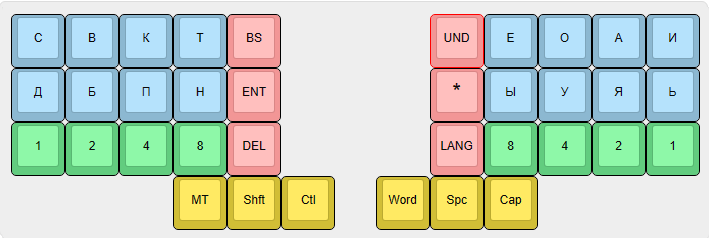
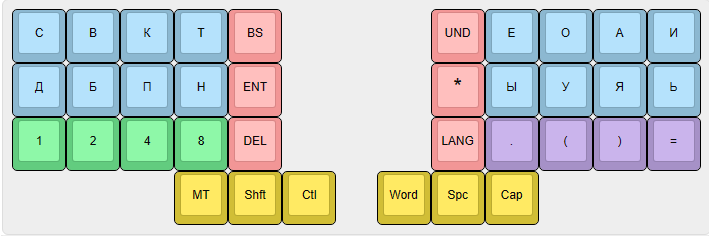
Урок 16

Changed region(s): [[0.5275, 0.0297, 0.9929, 0.9788], [0.0, 0.0297, 0.4965, 0.9788]]

diff --git a/learning/lesson014.md b/learning/lesson014.md
@@ -1,40 +1,67 @@
-```
+В сочетании "был" используются клавиши нижнего ряда (цифровые)
 
-        как                       ан
-|   | # | # |   |         |   |   | # |   |
-|   | # |   |   |         |   |   | # |   |
-
-        он                        ин
-|   | # |   |   |         |   |   |   | # |
-|   | # |   | # |         | # |   |   | # |
+Для ввода сочетания "был" без правой стороны, нажимайте клавишу "\*" на правой стороне клавиатуры
 
 ```
 
+| с | в | к | т |   | |   | е | о | а | и |
+| д | б | п | н |   | | * | ы | у | я | ь |
+| 1 | 2 | 4 | 8 |   | |   | 8 | 4 | 2 | 1 |
+
+        чт                       его
+|   | # |   | # |         | # |   |   |   |
+| # |   |   |   |         |   | # |   |   |
+
+        был                       ого
+|   |   |   |   |         |   | # |   |   |
+|   | # | # |   |         |   | # | # |   |
+|   | # |   |   |         |   |   |   |   |
+
+```
 
 | Слово | Разбивка |
 | --- | --- |
-| как | как. \* | 
-| он | он. \* | 
-| она | он.а | 
-| они | он.и | 
-| один | о д.ин | 
-| какой | как.ой | 
-| неожиданно | н.е о ж.и д.ан н.о | 
-| оно | он.о | 
-| никак | н.и как. \* | 
-| Иван | и в.ан | 
-| Константин | к.он ст.ан т.ин | 
-| никакой | н.и как.ой | 
-| хозяин | х.о з.я  \*.ин | 
-| каким | как.им | 
-| женщин | ж.ен щ.ин | 
-| института |  \*.ин ст.и т.у т.а | 
-| стакан | ст.а к.ан | 
-| Степан | ст.е п.ан | 
-| интересом |  \*.ин т.е р.е с.ом | 
-| машин | м.а ш.ин | 
-| неожиданности | н.е о ж.и д.ан н.о ст.и | 
+| что | чт.о | 
+| его |  \*.его | 
+| было | был.о | 
+| чтобы | чт.о б.ы | 
+| был | был. \* | 
+| ничего | н.и ч.его | 
+| него | н.его | 
+| была | был.а | 
+| были | был.и | 
+| того | т.ого | 
+| почти | п.о чт.и | 
+| чего | ч.его | 
+| своего | с в.о  \*.его | 
+| самого | с.а м.ого | 
+| чтоб | чт.о б | 
+| кого | к.ого | 
+| нашего | н.а ш.его | 
+| никакого | н.и как.ого | 
+| никого | н.и к.ого | 
+| моего | м.о  \*.его | 
+| нечего | н.е ч.его | 
+| каждого | к.а ж д.ого | 
+| нового | н.о в.ого | 
+| второго | в т.о р.ого | 
+| старого | ст.а р.ого | 
+| большого | б.оль ш.ого | 
+| забыл | з.а был. \* | 
+| нечто | н.е чт.о | 
+| вашего | в.а ш.его | 
+| маленького | м.а л.е н.ь к.ого | 
+| великого | в.е л.и к.ого | 
+| хорошего | х.о р.о ш.его | 
+| какого | как.ого | 
+| прошлого | пр.о ш л.ого | 
+| молодого | м.о л.о д.ого | 
+| старшего | ст.а р ш.его | 
+| твоего | т в.о  \*.его | 
+| будущего | б.у д.у щ.его | 
+| ничто | н.и чт.о | 
+| высокого | в.ы с.о к.ого | 
 
 Список слов для тренажера:
 
-как он она они один какой неожиданно оно никак Иван Константин никакой хозяин каким женщин института стакан Степан интересом машин неожиданности
+что его было чтобы был ничего него была были того почти чего своего самого чтоб кого нашего никакого никого моего нечего каждого нового второго старого большого забыл нечто вашего маленького великого хорошего какого прошлого молодого старшего твоего будущего ничто высокого

diff --git a/learning/lesson015.md b/learning/lesson015.md
@@ -1,48 +1,60 @@
-Начинаем добавлять в состав аккорда клавиши цифрового ряда
 
 ```
 
-        был                       его
+        эт                       от
+|   | # | # | # |         |   | # | # |   |
 |   |   |   |   |         | # |   |   |   |
-|   | # | # |   |         |   | # |   |   |
-|   | # |   |   |         |   |   |   |   |
 
-        буд                       ого
-|   |   |   |   |         |   | # |   |   |
-|   | # | # |   |         |   | # | # |   |
-|   | # | # |   |         |   |   |   |   |
+        вс                       ер
+| # | # |   |   |         | # | # |   |   |
+|   |   |   |   |         | # |   |   |   |
 
 ```
+
 
 | Слово | Разбивка |
 | --- | --- |
-| его |  \*.его | 
-| было | был.о | 
-| был | был. \* | 
-| ничего | н.и ч.его | 
-| него | н.его | 
-| была | был.а | 
-| были | был.и | 
+| все | вс.е | 
+| это | эт.о | 
+| от |  \*.от | 
+| вот | в.от | 
 | этого | эт.ого | 
-| того | т.ого | 
-| будто | буд. \* т.о | 
-| чего | ч.его | 
-| кого | к.ого | 
-| нашего | н.а ш.его | 
-| будем | буд.ем | 
-| буду | буд.у | 
-| никакого | н.и как.ого | 
-| никого | н.и к.ого | 
-| нечего | н.е ч.его | 
-| будешь | буд.е ш.ь | 
-| забыл | з.а был. \* | 
-| хорошего | х.о р.о ш.его | 
-| какого | как.ого | 
-| единого | е д.и н.ого | 
-| прочего | пр.о ч.его | 
-| нибудь | н.и буд.ь | 
-| забудь | з.а буд.ь | 
+| этот | эт.от | 
+| всего | вс.его | 
+| ответил |  \*.от в.е т.ил | 
+| этой | эт.ой | 
+| тот | т.от | 
+| эти | эт.и | 
+| первый | п.ер в.ый | 
+| поэтому | п.о эт.о м.у | 
+| этих | эт.и х | 
+| эту | эт.у | 
+| откуда |  \*.от к.у д.а | 
+| сердце | с.ер д ц.е | 
+| эта | эт.а | 
+| всю | вс.ю | 
+| например | н.а пр.и м.ер | 
+| этому | эт.о м.у | 
+| первого | п.ер в.ого | 
+| ответила |  \*.от в.е т.и л.а | 
+| Сергей | с.ер г.ей | 
+| отца |  \*.от ц.а | 
+| наверно | н.а в.ер н.о | 
+| вовсе | в.о вс.е | 
+| оттуда |  \*.от т.у д.а | 
+| всей | вс.ей | 
+| вся | вс.я | 
+| наоборот | н.а о б.о р.от | 
+| первой | п.ер в.ой | 
+| ветер | в.е т.ер | 
+| отсюда |  \*.от с.ю д.а | 
+| отношения |  \*.от н.о ш.е н.и я | 
+| вечер | в.е ч.ер | 
+| всему | вс.е м.у | 
+| всеми | вс.е м.и | 
+| всякий | вс.я к.ий | 
+| наверняка | н.а в.ер н.я к.а | 
 
 Список слов для тренажера:
 
-его было был ничего него была были этого того будто чего кого нашего будем буду никакого никого нечего будешь забыл хорошего какого единого прочего нибудь забудь
+все это от вот этого этот всего ответил этой тот эти первый поэтому этих эту откуда сердце эта всю например этому первого ответила Сергей отца наверно вовсе оттуда всей вся наоборот первой ветер отсюда отношения вечер всему всеми всякий наверняка

diff --git a/learning/lesson016.md b/learning/lesson016.md
@@ -1,42 +1,58 @@
 ```
 
-        вс                       ать
-| # | # |   |   |         |   |   | # |   |
-|   |   |   |   |         |   |   |   | # |
+        ск                       ем
+| # |   | # |   |         | # |   |   | # |
+|   |   |   |   |         |   |   |   |   |
 
-        сл                       ить
-| # |   |   |   |         |   |   |   | # |
-|   | # | # |   |         |   |   |   | # |
+        сл                       ом
+| # |   |   |   |         |   | # |   |   |
+|   | # | # |   |         | # |   |   |   |
 
 ```
 
 | Слово | Разбивка |
 | --- | --- |
-| все | вс.е | 
+| сказал | ск.а з.ал | 
+| если | е сл.и | 
+| потом | п.о т.ом | 
+| несколько | н.е ск.оль к.о | 
 | после | п.о сл.е | 
 | совсем | с.о вс.ем | 
-| всего | вс.его | 
+| чем | ч.ем | 
+| этом | эт.ом | 
+| сказать | ск.а з.ать | 
+| сколько | ск.оль к.о | 
+| рядом | р.я д.ом | 
+| том | т.ом | 
 | слова | сл.о в.а | 
 | всем | вс.ем | 
+| тем | т.ем | 
+| зачем | з.а ч.ем | 
+| слишком | сл.и ш к.ом | 
+| впрочем | в пр.о ч.ем | 
 | слово | сл.о в.о | 
+| затем | з.а т.ем | 
+| случае | сл.у ч.а е | 
+| самом | с.а м.ом | 
 | случилось | сл.у ч.и л.о с.ь | 
-| мать | м.ать | 
-| всю | вс.ю | 
+| голосом | г.о л.о с.ом | 
+| вечером | в.е ч.е р.ом | 
+| нем | н.ем | 
 | вспомнил | вс. \* п.ом н.ил | 
-| работать | р.а б.о т.ать | 
-| жить | ж.ить | 
-| думать | д.у м.ать | 
+| комнату | к.ом н.а т.у | 
+| человеком | ч.е л.о в.е к.ом | 
+| комнате | к.ом н.а т.е | 
+| своем | с в.о  \*.ем | 
+| землю | з.ем л.ю | 
+| будем | б.у д.ем | 
+| скоро | ск.о р.о | 
+| поскольку | п.о ск.оль к.у | 
+| земле | з.ем л.е | 
+| дом | д.ом | 
+| земли | з.ем л.и | 
 | слышал | сл.ы ш.ал | 
 | мысли | м.ы сл.и | 
-| вовсе | в.о вс.е | 
-| услышал | у сл.ы ш.ал | 
-| мысль | м.ы сл.ь | 
-| слегка | сл.е г к.а | 
-| ходить | х.о д.ить | 
-| вспомнить | вс. \* п.ом н.ить | 
-| учиться | у ч.ить с.я | 
-| Ярослав | я р.о сл.а в | 
 
 Список слов для тренажера:
 
-все после совсем всего слова всем слово случилось мать всю вспомнил работать жить думать слышал мысли вовсе услышал мысль слегка ходить вспомнить учиться Ярослав
+сказал если потом несколько после совсем чем этом сказать сколько рядом том слова всем тем зачем слишком впрочем слово затем случае самом случилось голосом вечером нем вспомнил комнату человеком комнате своем землю будем скоро поскольку земле дом земли слышал мысли

diff --git a/learning/lesson013.md b/learning/lesson013.md
@@ -1,6 +1,11 @@
 Клавиши "Е" и "Ы" нажимаются одновременно указательным пальцем. Для этого указательный палец поставьте между этими клавишами. Аналогично нажимаются сочетания клавиш "О" и "У".
 
+Для ввода сочетаний "как", "он" без правой стороны, нажимайте клавишу "\*" на правой стороне клавиатуры
+
 ```
+| с | в | к | т |   | |   | е | о | а | и |
+| д | б | п | н |   | | * | ы | у | я | ь |
+| 1 | 2 | 4 | 8 |   | |   | 8 | 4 | 2 | 1 |
 
         как                       ал
 |   | # | # |   |         |   |   | # | # |
@@ -12,12 +17,6 @@
 
 ```
 
-
-как
-он
-
-ал
-ил
 
 | Слово | Разбивка |
 | --- | --- |
